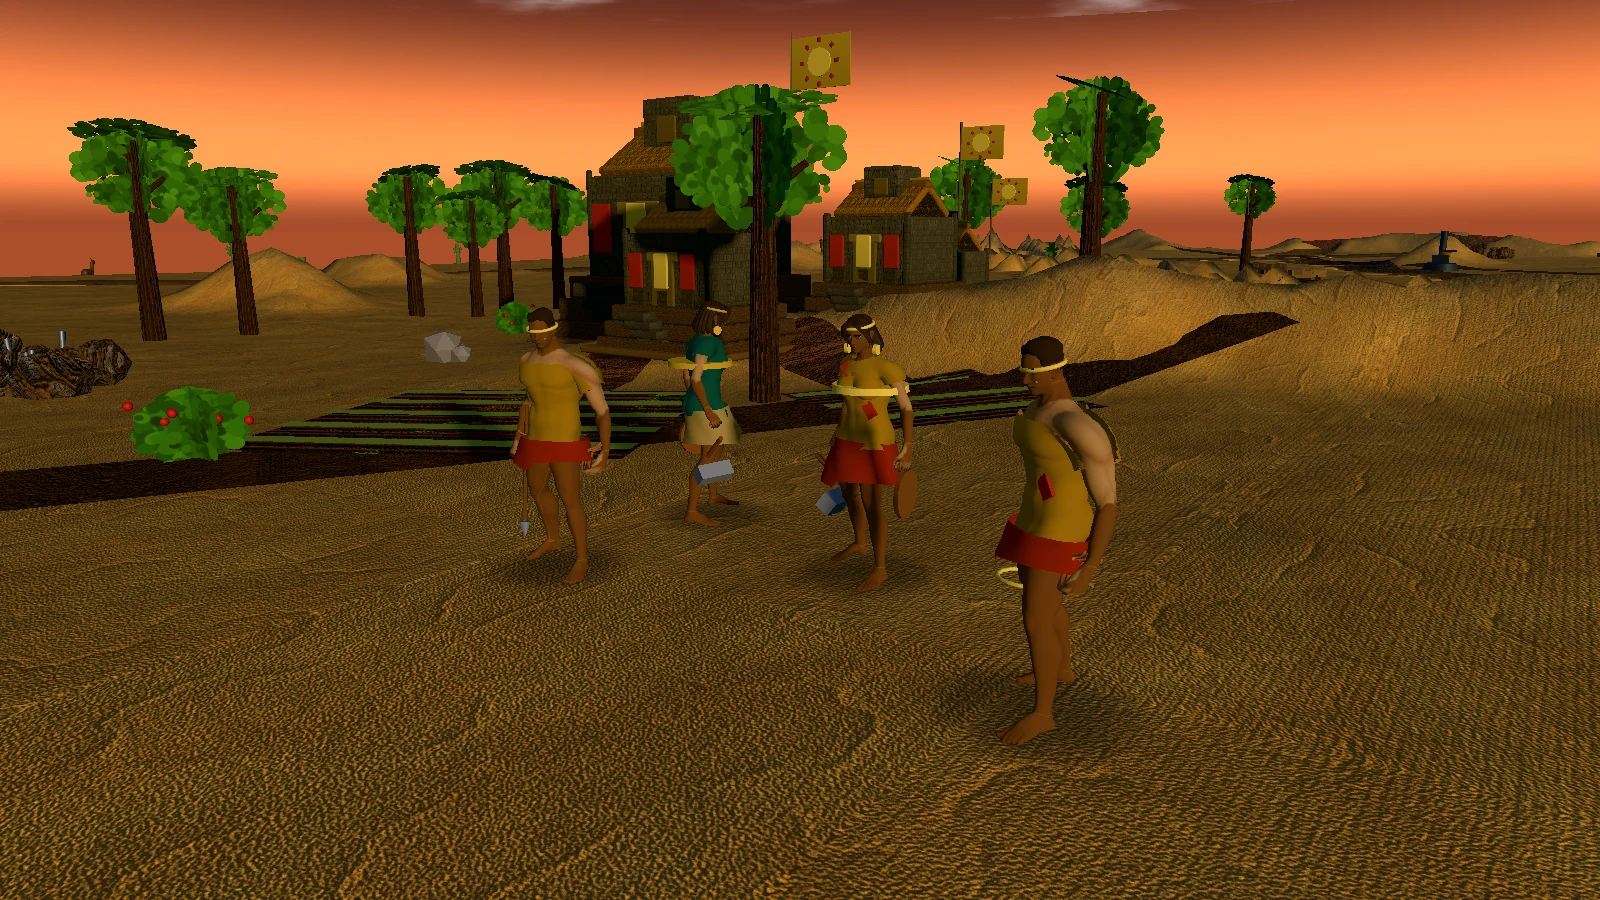
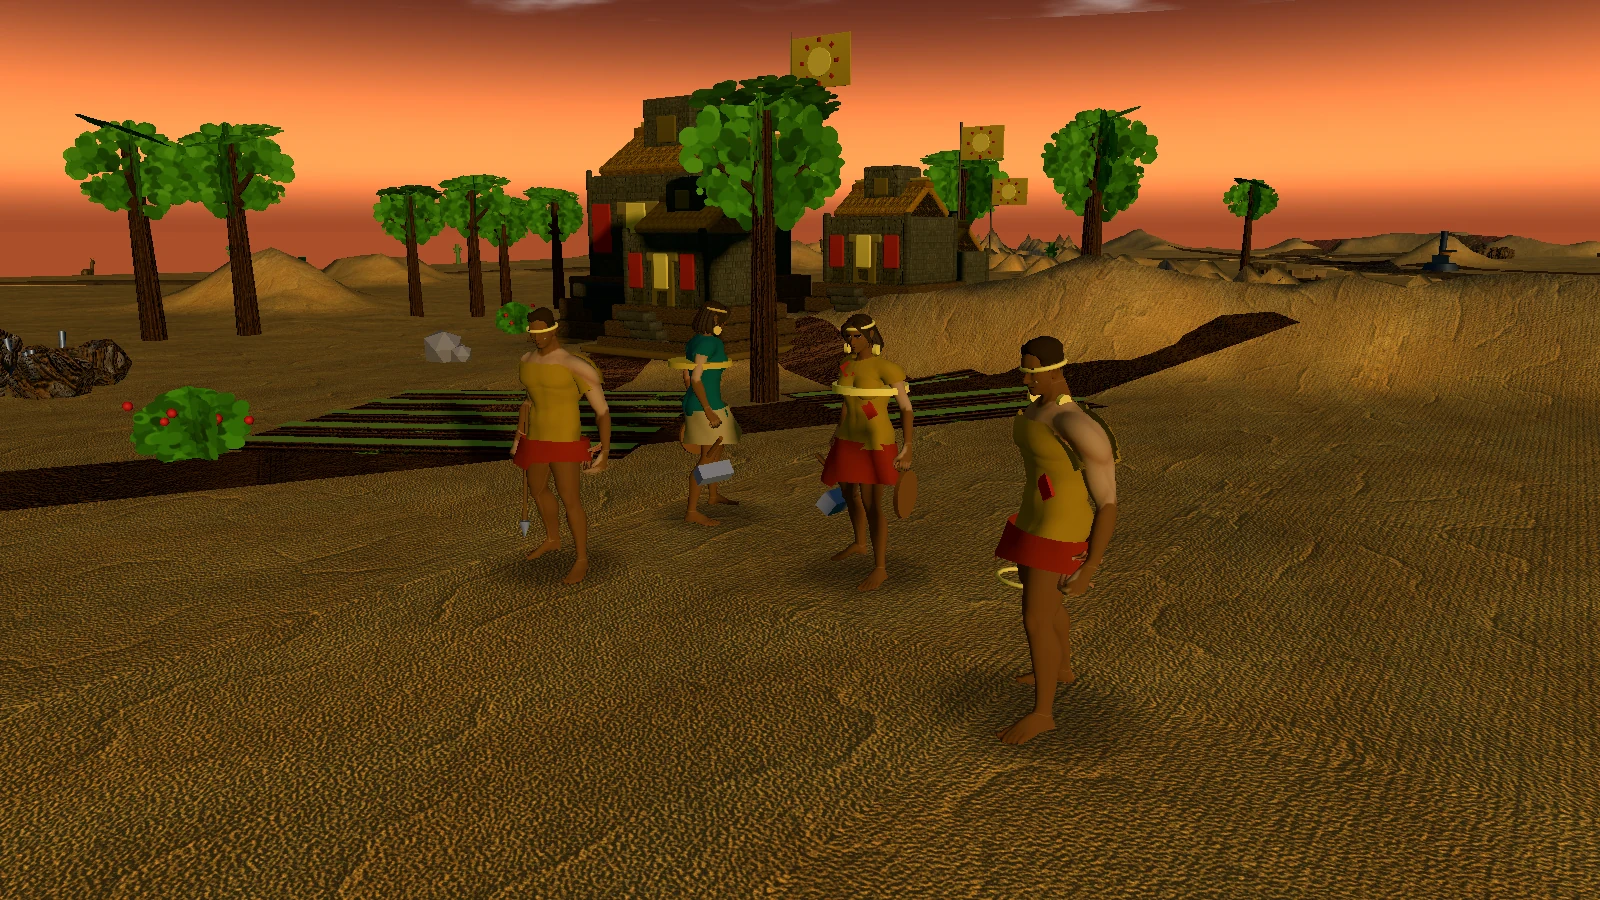
fix(models): align Middle Horizon accessories with sources
- Add RIFLEMAN to the preload probe.
- Give ranged Chimú/Inca/Wari the documented ear/pectoral pieces.
- Document the m5/m6 P4-opponent campaign exception.
- Fold E2E expectations into the mission table and refresh evidence.

diff --git a/tests/e2e/late-horizon-units.spec.ts b/tests/e2e/late-horizon-units.spec.ts
@@ -1,9 +1,33 @@
 import { expect, test, type Page } from '@playwright/test';
 
 const MISSIONS = [
-  { mission: 'm4_wari', player: 'wari', enemy: 'tiahuanaco' },
-  { mission: 'm5_yahuar_pampa', player: 'inca', enemy: 'chanca' },
-  { mission: 'm6_chimu_inca', player: 'inca', enemy: 'chimu' },
+  {
+    mission: 'm4_wari',
+    player: 'wari',
+    enemy: 'tiahuanaco',
+    scout: 'wari_scout',
+    rangedPectoral: true,
+    enemyGear: { helmet: false, ear: false, pectoral: false, facePaint: false, sash: false },
+    enemyRangedEar: false,
+  },
+  {
+    mission: 'm5_yahuar_pampa',
+    player: 'inca',
+    enemy: 'chanca',
+    scout: 'inca_chasqui',
+    rangedPectoral: false,
+    enemyGear: { helmet: false, ear: false, pectoral: false, facePaint: true, sash: false },
+    enemyRangedEar: false,
+  },
+  {
+    mission: 'm6_chimu_inca',
+    player: 'inca',
+    enemy: 'chimu',
+    scout: 'inca_chasqui',
+    rangedPectoral: false,
+    enemyGear: { helmet: false, ear: true, pectoral: false, facePaint: false, sash: false },
+    enemyRangedEar: true,
+  },
 ] as const;
 
 async function boot(page: Page, mission: string): Promise<void> {
@@ -72,9 +96,7 @@ test.describe('Middle and Late Horizon rigged infantry', () => {
       expect(out.worker.variant).toMatch(new RegExp(`^${spec.player}_worker_[fm]$`));
       expect(out.soldier.variant).toMatch(new RegExp(`^${spec.player}_soldier_[fm]$`));
       expect(out.ranged.variant).toMatch(new RegExp(`^${spec.player}_ranged_[fm]$`));
-      expect(out.scout.variant).toMatch(
-        new RegExp(spec.enemy === 'tiahuanaco' ? '^wari_scout_[fm]$' : '^inca_chasqui_[fm]$'),
-      );
+      expect(out.scout.variant).toMatch(new RegExp(`^${spec.scout}_[fm]$`));
       expect(out.enemy.variant).toMatch(new RegExp(`^${spec.enemy}_soldier_[fm]$`));
       expect(out.enemyRanged.variant).toMatch(new RegExp(`^${spec.enemy}_ranged_[fm]$`));
 
@@ -85,27 +107,12 @@ test.describe('Middle and Late Horizon rigged infantry', () => {
       expect(out.soldier.backflap).toBe(false);
       expect(out.soldier.hasAttack).toBe(true);
       expect(out.ranged.sling).toBe(true);
+      expect(out.ranged.pectoral).toBe(spec.rangedPectoral);
+      expect(out.ranged.backplate).toBe(spec.rangedPectoral);
       expect(out.enemyRanged.sling).toBe(true);
-
-      if (spec.enemy === 'tiahuanaco') {
-        expect(out.soldier.pectoral).toBe(true);
-        expect(out.soldier.backplate).toBe(true);
-        expect(out.soldier.helmet).toBe(false);
-        expect(out.enemy.helmet).toBe(false);
-        expect(out.enemy.pectoral).toBe(false);
-      }
-      if (spec.enemy === 'chanca') {
-        expect(out.soldier.sash).toBe(true);
-        expect(out.enemy.facePaint).toBe(true);
-        expect(out.enemy.ear).toBe(false);
-        expect(out.enemy.sash).toBe(false);
-      }
-      if (spec.enemy === 'chimu') {
-        expect(out.soldier.sash).toBe(true);
-        expect(out.enemy.ear).toBe(true);
-        expect(out.enemy.sash).toBe(false);
-        expect(out.enemy.facePaint).toBe(false);
-      }
+      expect(out.enemyRanged.ear).toBe(spec.enemyRangedEar);
+      expect(out.soldier).toMatchObject({ pectoral: spec.rangedPectoral, backplate: spec.rangedPectoral });
+      expect(out.enemy).toMatchObject(spec.enemyGear);
       expect(errors).toEqual([]);
     });
   }

diff --git a/src/rendering/workerAttire.ts b/src/rendering/workerAttire.ts
@@ -252,7 +252,9 @@ export function dressCaralWorker(rig: RigInstance, variant: RigVariant = 'caral_
       attach('spine_03', backplate, new THREE.Vector3(spine.x, spine.y + 0.04, spine.z - 0.18));
     }
     const metalMat =
-      spec.metal !== null && (spec.helmet || spec.ear) && role === 'soldier' ? makeMaterial(spec.metal, 0.55) : null;
+      spec.metal !== null && (spec.helmet || spec.ear) && (role === 'soldier' || role === 'ranged')
+        ? makeMaterial(spec.metal, 0.55)
+        : null;
     const shieldMat = role === 'soldier' ? makeMaterial(0x7a4a2a, 0.95) : null;
     const boneL = bonePosition('hand_l');
     const pelvis = bonePosition('pelvis');
@@ -265,7 +267,7 @@ export function dressCaralWorker(rig: RigInstance, variant: RigVariant = 'caral_
       const backflap = addMesh(new THREE.BoxGeometry(0.34, 0.38, 0.035), armorMat, 'attire_andean_backflap');
       attach('spine_03', backflap, new THREE.Vector3(spine.x, spine.y - 0.1, spine.z - 0.19));
     }
-    if (spec.ear && role === 'soldier' && headBone && metalMat) {
+    if (spec.ear && headBone && metalMat) {
       for (const side of [-1, 1]) {
         const ear = addMesh(new THREE.CylinderGeometry(0.035, 0.035, 0.025, 10), metalMat, 'attire_andean_ear');
         ear.rotation.z = Math.PI / 2;

diff --git a/src/model/defs/modelAssets.ts b/src/model/defs/modelAssets.ts
@@ -143,7 +143,7 @@ export function unitModelAsset(kind: UnitKind, era: Era, civ: CivId, id = 0): Ri
 /** Models that must be ready before a match starts (all participating civs are covered). */
 export function modelAssetIdsForMatch(period: HistoricalPeriod, civs: readonly CivId[]): ModelAssetId[] {
   const era = getPeriod(period).level;
-  const kinds = [UnitKind.WORKER, UnitKind.SCOUT, UnitKind.SOLDIER, UnitKind.MUSKETEER];
+  const kinds = [UnitKind.WORKER, UnitKind.SCOUT, UnitKind.SOLDIER, UnitKind.MUSKETEER, UnitKind.RIFLEMAN];
   const rigged = civs.some((civ) => kinds.some((kind) => unitModelAsset(kind, era, civ) !== null));
   return rigged ? [CARAL_WORKER_ASSET_ID] : [];
 }

diff --git a/docs/design/visual-language.md b/docs/design/visual-language.md
@@ -289,7 +289,7 @@ and Chimú in `m5`/`m6` even though their `CivDef` period is Late Intermediate; 
 Inca scout keeps the reserved `inca_chasqui_*` set instead of the infantry role clips. Evidence:
 [`middle-horizon-units.webp`](../media/middle-horizon-units.webp) (Wari worker/soldier/ranged and Tiahuanaco
 soldier), [`late-horizon-units.webp`](../media/late-horizon-units.webp) (Inca worker/soldier/ranged and Chanca
-soldier) and [`chimu-inca-units.webp`](../media/chimu-inca-units.webp) (Inca and Chimú soldiers; UI hidden).
+soldier) and [`chimu-inca-units.webp`](../media/chimu-inca-units.webp) (Inca worker/soldier/ranged and Chimú soldier; UI hidden).
 
 Comparable evidence (same mission `m1_caral`, 1600x900, UI hidden):
 [`caral-worker-final-before-after.webp`](../media/caral-worker-final-before-after.webp) (procedural worker →

diff --git a/docs/historia/periodizacion.md b/docs/historia/periodizacion.md
@@ -15,6 +15,9 @@ periódicamente; se listan los rangos más citados.
 | P4 | Intermedio Tardío | 1000–1476 d.C. | Lumbreras: «Estados Regionales» 1200–1430/1470 | Chimú, Chincha, Chanca, Collas y Lupaca, Huanca, Chancay, Chachapoyas, Sicán, Ichma |
 | P5 | Horizonte Tardío (Inca) | 1476–1534 d.C. | Se inicia con la victoria inca sobre los chancas en 1438 y la expansión imperial | Imperio incaico (Tahuantinsuyo) |
 
+> **Campañas m5/m6.** Yahuar Pampa (1438) y la guerra chimú-inca (c. 1470) usan Chanca y Chimú como
+> oponentes históricos del P4; el roster de escaramuza del P5 sigue siendo solo Inca.
+
 ## Etapas posteriores (cobertura de campañas)
 
 | # | Etapa | Fechas | Facciones |

diff --git a/docs/historia/contemporaneidad.md b/docs/historia/contemporaneidad.md
@@ -38,6 +38,10 @@ emparejamientos permitidos.
 | P7 Independencia | Patriotas, Realistas | **San Martín/Bolívar ↔ Realistas (1821–1824)** |
 | P8 República | República del Perú, Confederación, Chile | **Guerra del Pacífico (1879–1883)** |
 
+> **Excepción de campaña.** `m5` (1438) y `m6` (c. 1470) enfrentan al Inca con Chanca y Chimú, que
+> pertenecen al P4; el roster de escaramuza de P5 sigue siendo solo Inca. El mapeo de modelos usa la era
+> técnica, no el roster, para que esos oponentes históricos conserven su rig.
+
 ## Reglas de diseño para el menú
 
 1. Se elige **primero el periodo**; el juego solo ofrece civilizaciones de ese periodo.
